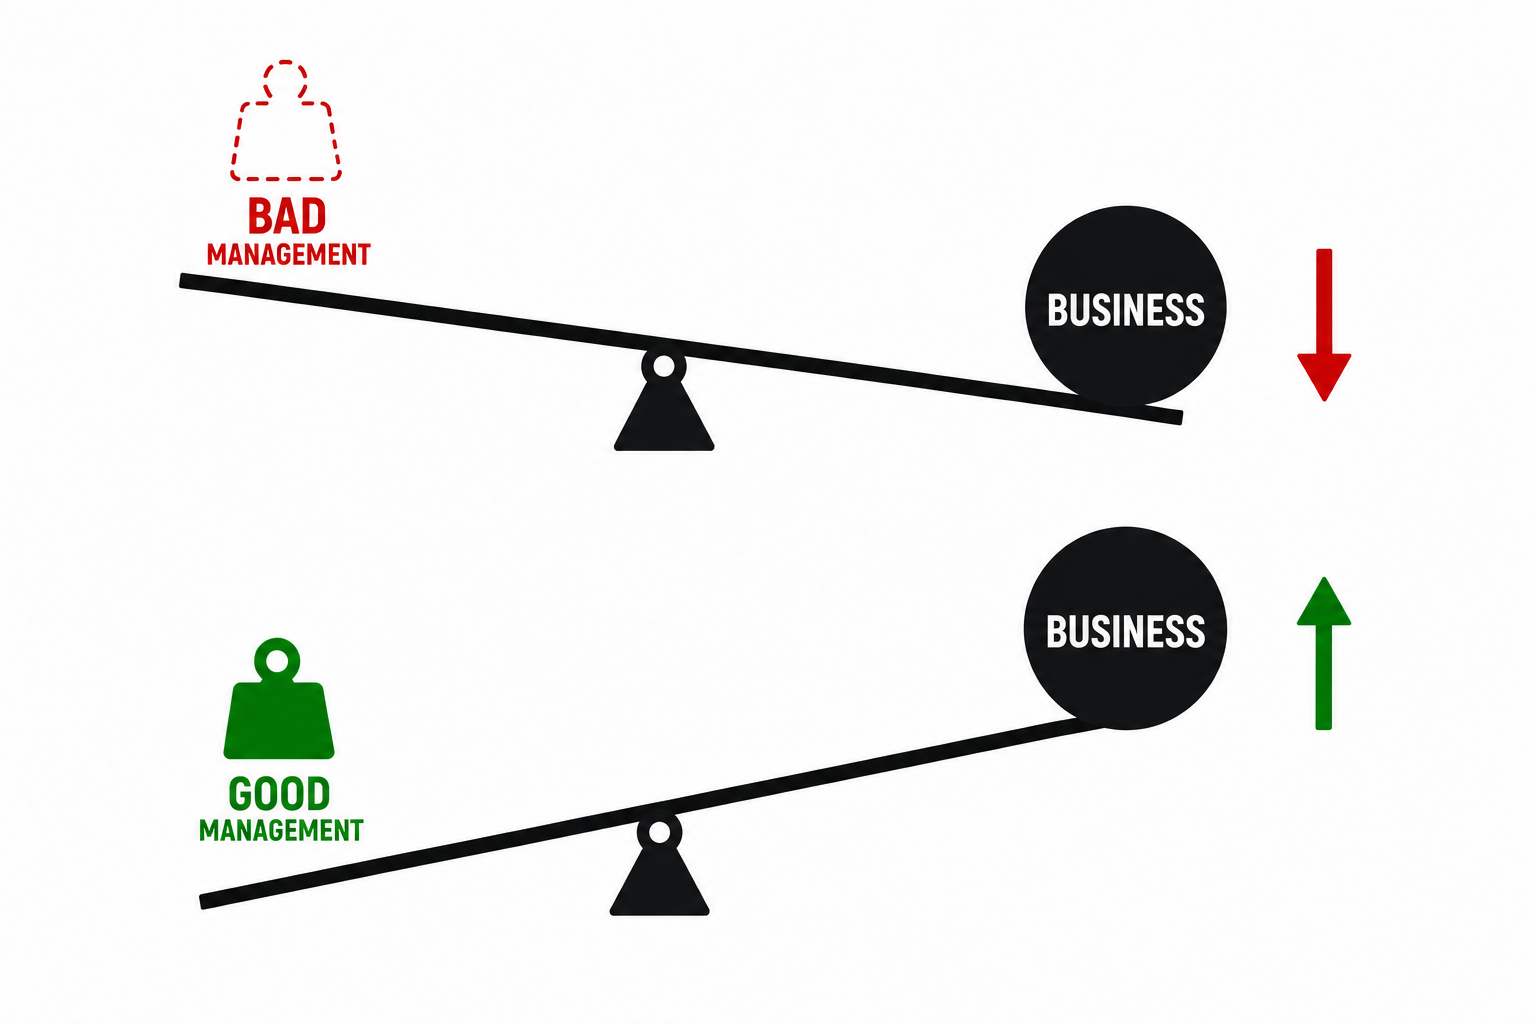
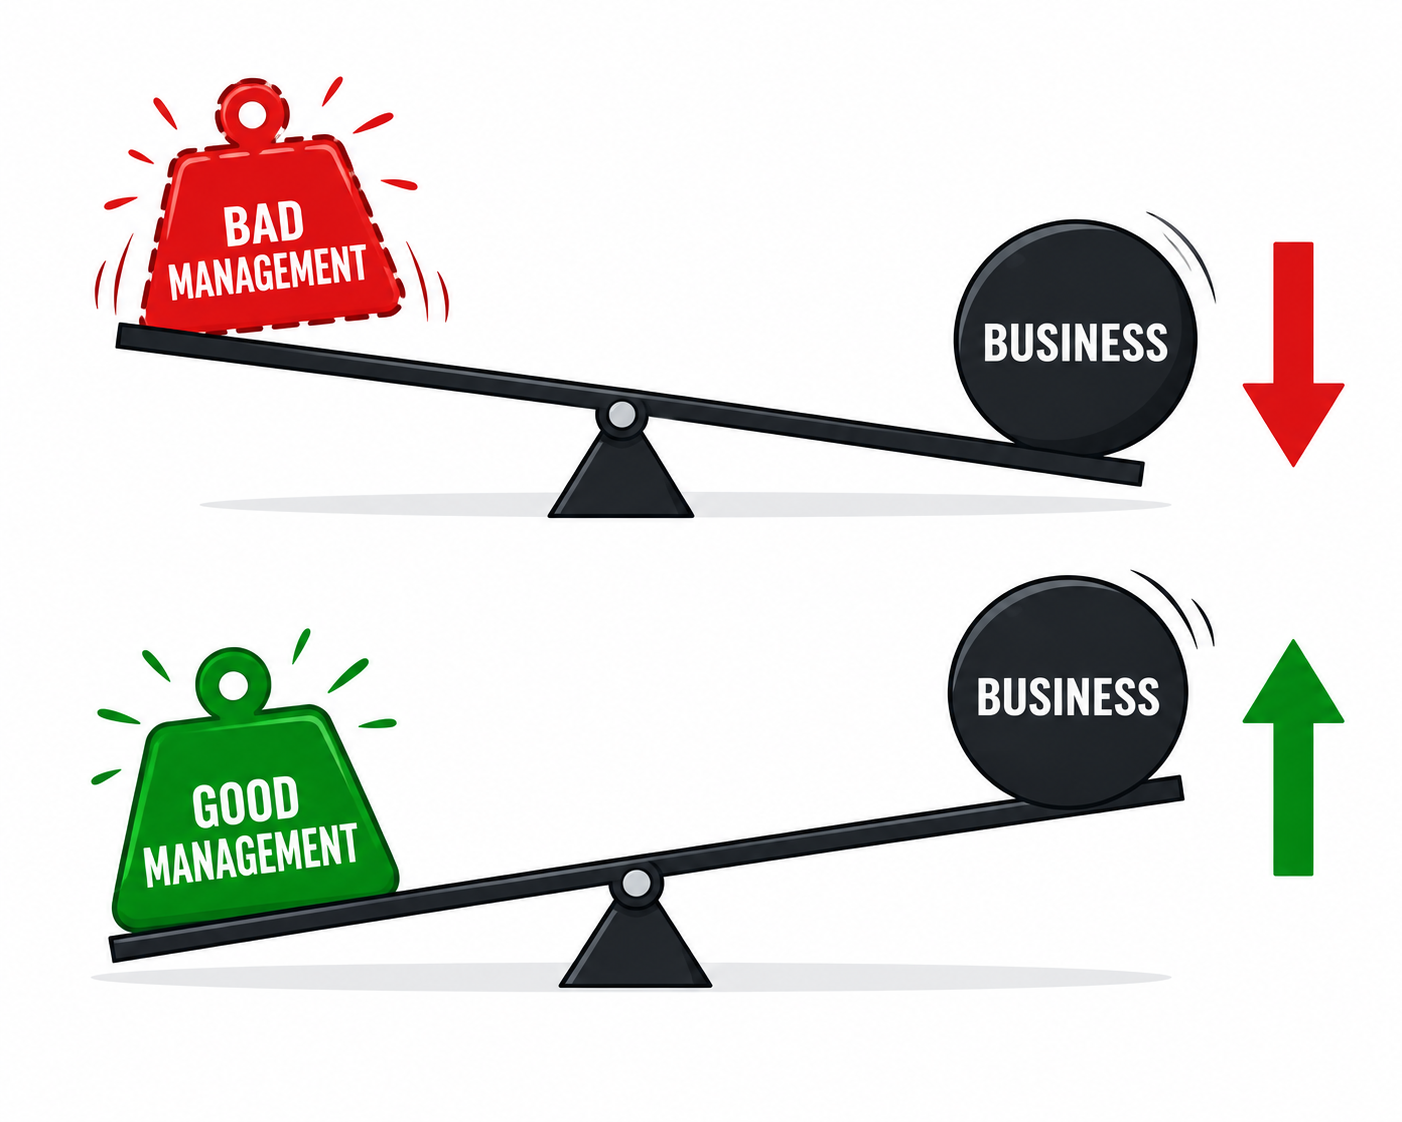
Replace four module-strip concept images with card-fitting 5:4 versions
looks-cheap, management-leverage, textbook-theory and investor-archetypes
were portrait or whitespace-heavy and rendered small in the 236x190 card
frame. Swap in 1402x1122 redraws and update the archetypes alt/caption to
match the new illustration.

Changed region(s): [[0.0613, 0.5, 0.9815, 0.9062], [0.0613, 0.0625, 0.9508, 0.4688], [0.092, 0.5625, 0.1227, 0.5938]]

diff --git a/index.html b/index.html
@@ -697,8 +697,8 @@
         </div>
         <div class="module-card">
           <span class="module-card-tag">Investor Archetypes</span>
-          <img src="/investor-archetypes.png" alt="Three investor archetypes: Rufus chasing FOMO alerts, Value Boi staring at a falling spreadsheet, and the Master-Investor.">
-          <p class="module-card-caption">Most investors get stuck somewhere on this path: FOMO-chasing, spreadsheet-stuck, or actually seeing the picture.</p>
+          <img src="/investor-archetypes.png" alt="Three investor archetypes: one panicking amid crash headlines and rumors, one calmly working through annual reports and a checklist, and a wizard holding a book labelled Compound Knowledge.">
+          <p class="module-card-caption">Most investors sit somewhere on this path: drowning in headlines, working an actual process, or compounding what they've already learned.</p>
         </div>
         <div class="module-card">
           <span class="module-card-tag">Management Quality</span>
